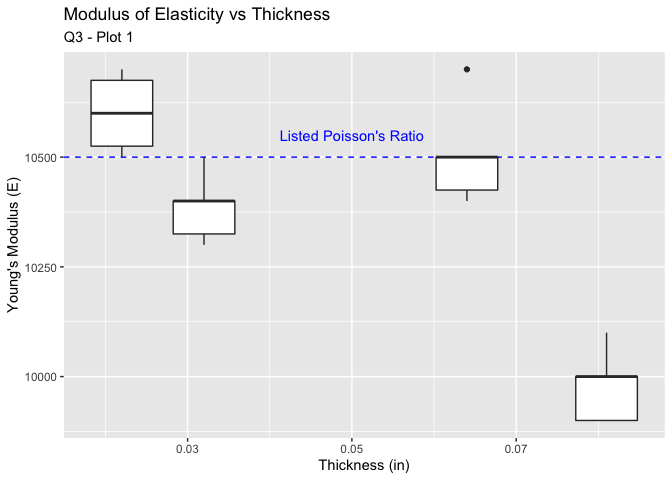
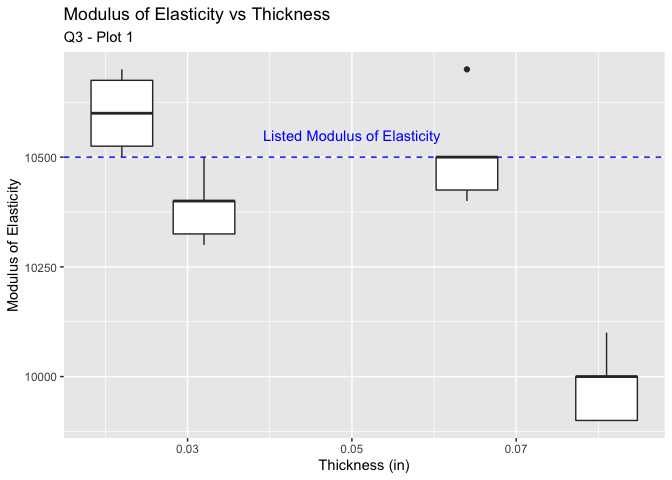
Updating labels.

Changed region(s): [[0.4062, 0.25, 0.6562, 0.3125], [0.0, 0.375, 0.0312, 0.6562]]

diff --git a/challenges/c03-stang-assignment.md b/challenges/c03-stang-assignment.md
@@ -333,14 +333,14 @@ q3_plot1 <- df_stang_long_factors %>%
         )
     ) +
   annotate("text", 
-           label = "Listed Poisson's Ratio", 
+           label = "Listed Modulus of Elasticity", 
            x = 0.05, 
            y = 10550, 
            color = "blue") +
   labs(title = "Modulus of Elasticity vs Thickness", 
        subtitle = "Q3 - Plot 1", 
        x = "Thickness (in)", 
-       y = "Young's Modulus (E)"
+       y = "Modulus of Elasticity"
        )
 
 
@@ -401,7 +401,7 @@ q3_plot3 <- df_stang_long_factors %>%
   labs(title = "Modulus of Elasticity vs Angle",  
        subtitle = "Q3 - Plot 3", 
        x = "Angle (degrees)", 
-       y = "Young's Modulus (E)"
+       y = "Modulus of Elasticity"
        )
   
 q3_plot4 <- df_stang_long_factors %>% 
